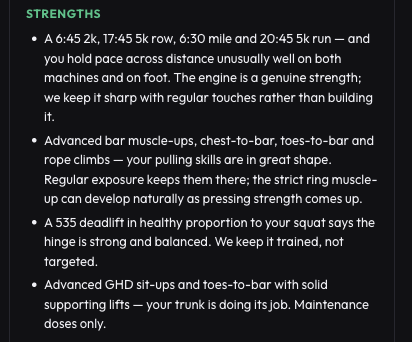
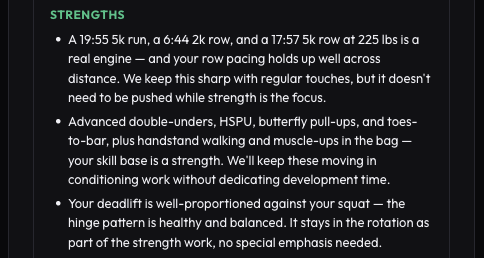
Evaluations tab: refresh sections 03-07 with the unlinked account's eval
The linked competition athlete was disconnected so the sample
evaluation reads clean to a cold prospect — no comp-athlete
comparisons a non-competitor can't parse. New captures replace the
verdict, strengths, weaknesses, analysis, and recommendations frames
(capture border slivers trimmed); the intake frames (01-02) show the
form, not findings, and stay.

Two captions quoted the old eval's specifics and now quote the new
one's: strengths keeps the engine sharp 'but it doesn't need to be
pushed while strength is the focus', and the weaknesses diagnosis is
the jerk (265) barely clearing the push press (255) — technique, not
strength, capping the clean & jerk.

Claude-Session: https://claude.ai/code/session_01A1HN2KJNvRQZpHV5XUiDz9

Changed region(s): [[0.0583, 0.0, 0.932, 0.9612]]

diff --git a/src/lib/examplesLibrary.ts b/src/lib/examplesLibrary.ts
@@ -76,14 +76,14 @@ export const EXAMPLE_WALKTHROUGHS: Partial<Record<ExamplesTab, ExampleWalkthroug
         alt: 'Evaluation strengths section',
         title: 'What not to waste time on',
         caption:
-          'It knows what’s already working — and says so with numbers. “We keep it trained, not targeted” is how your programming time doesn’t get wasted.',
+          'It knows what’s already working — and says so with numbers. A 19:55 5k and a 6:44 2k row get kept sharp with regular touches, “but it doesn’t need to be pushed while strength is the focus.” That’s how your training time doesn’t get wasted.',
       },
       {
         image: '/images/eval-weaknesses.png',
         alt: 'Evaluation weaknesses and priorities, ranked',
         title: 'Ranked, with the why',
         caption:
-          'Not a list — a diagnosis. It works out that the push press is covering for untrained shoulders, and that the jerk is what caps the clean & jerk. That’s reasoning, not a template.',
+          'Not a list — a diagnosis. It notices the jerk (265) barely clears the push press (255), and concludes it’s technique, not strength, capping the clean & jerk — so the fix is cheap. That’s reasoning, not a template.',
       },
       {
         image: '/images/eval-analysis.png',
